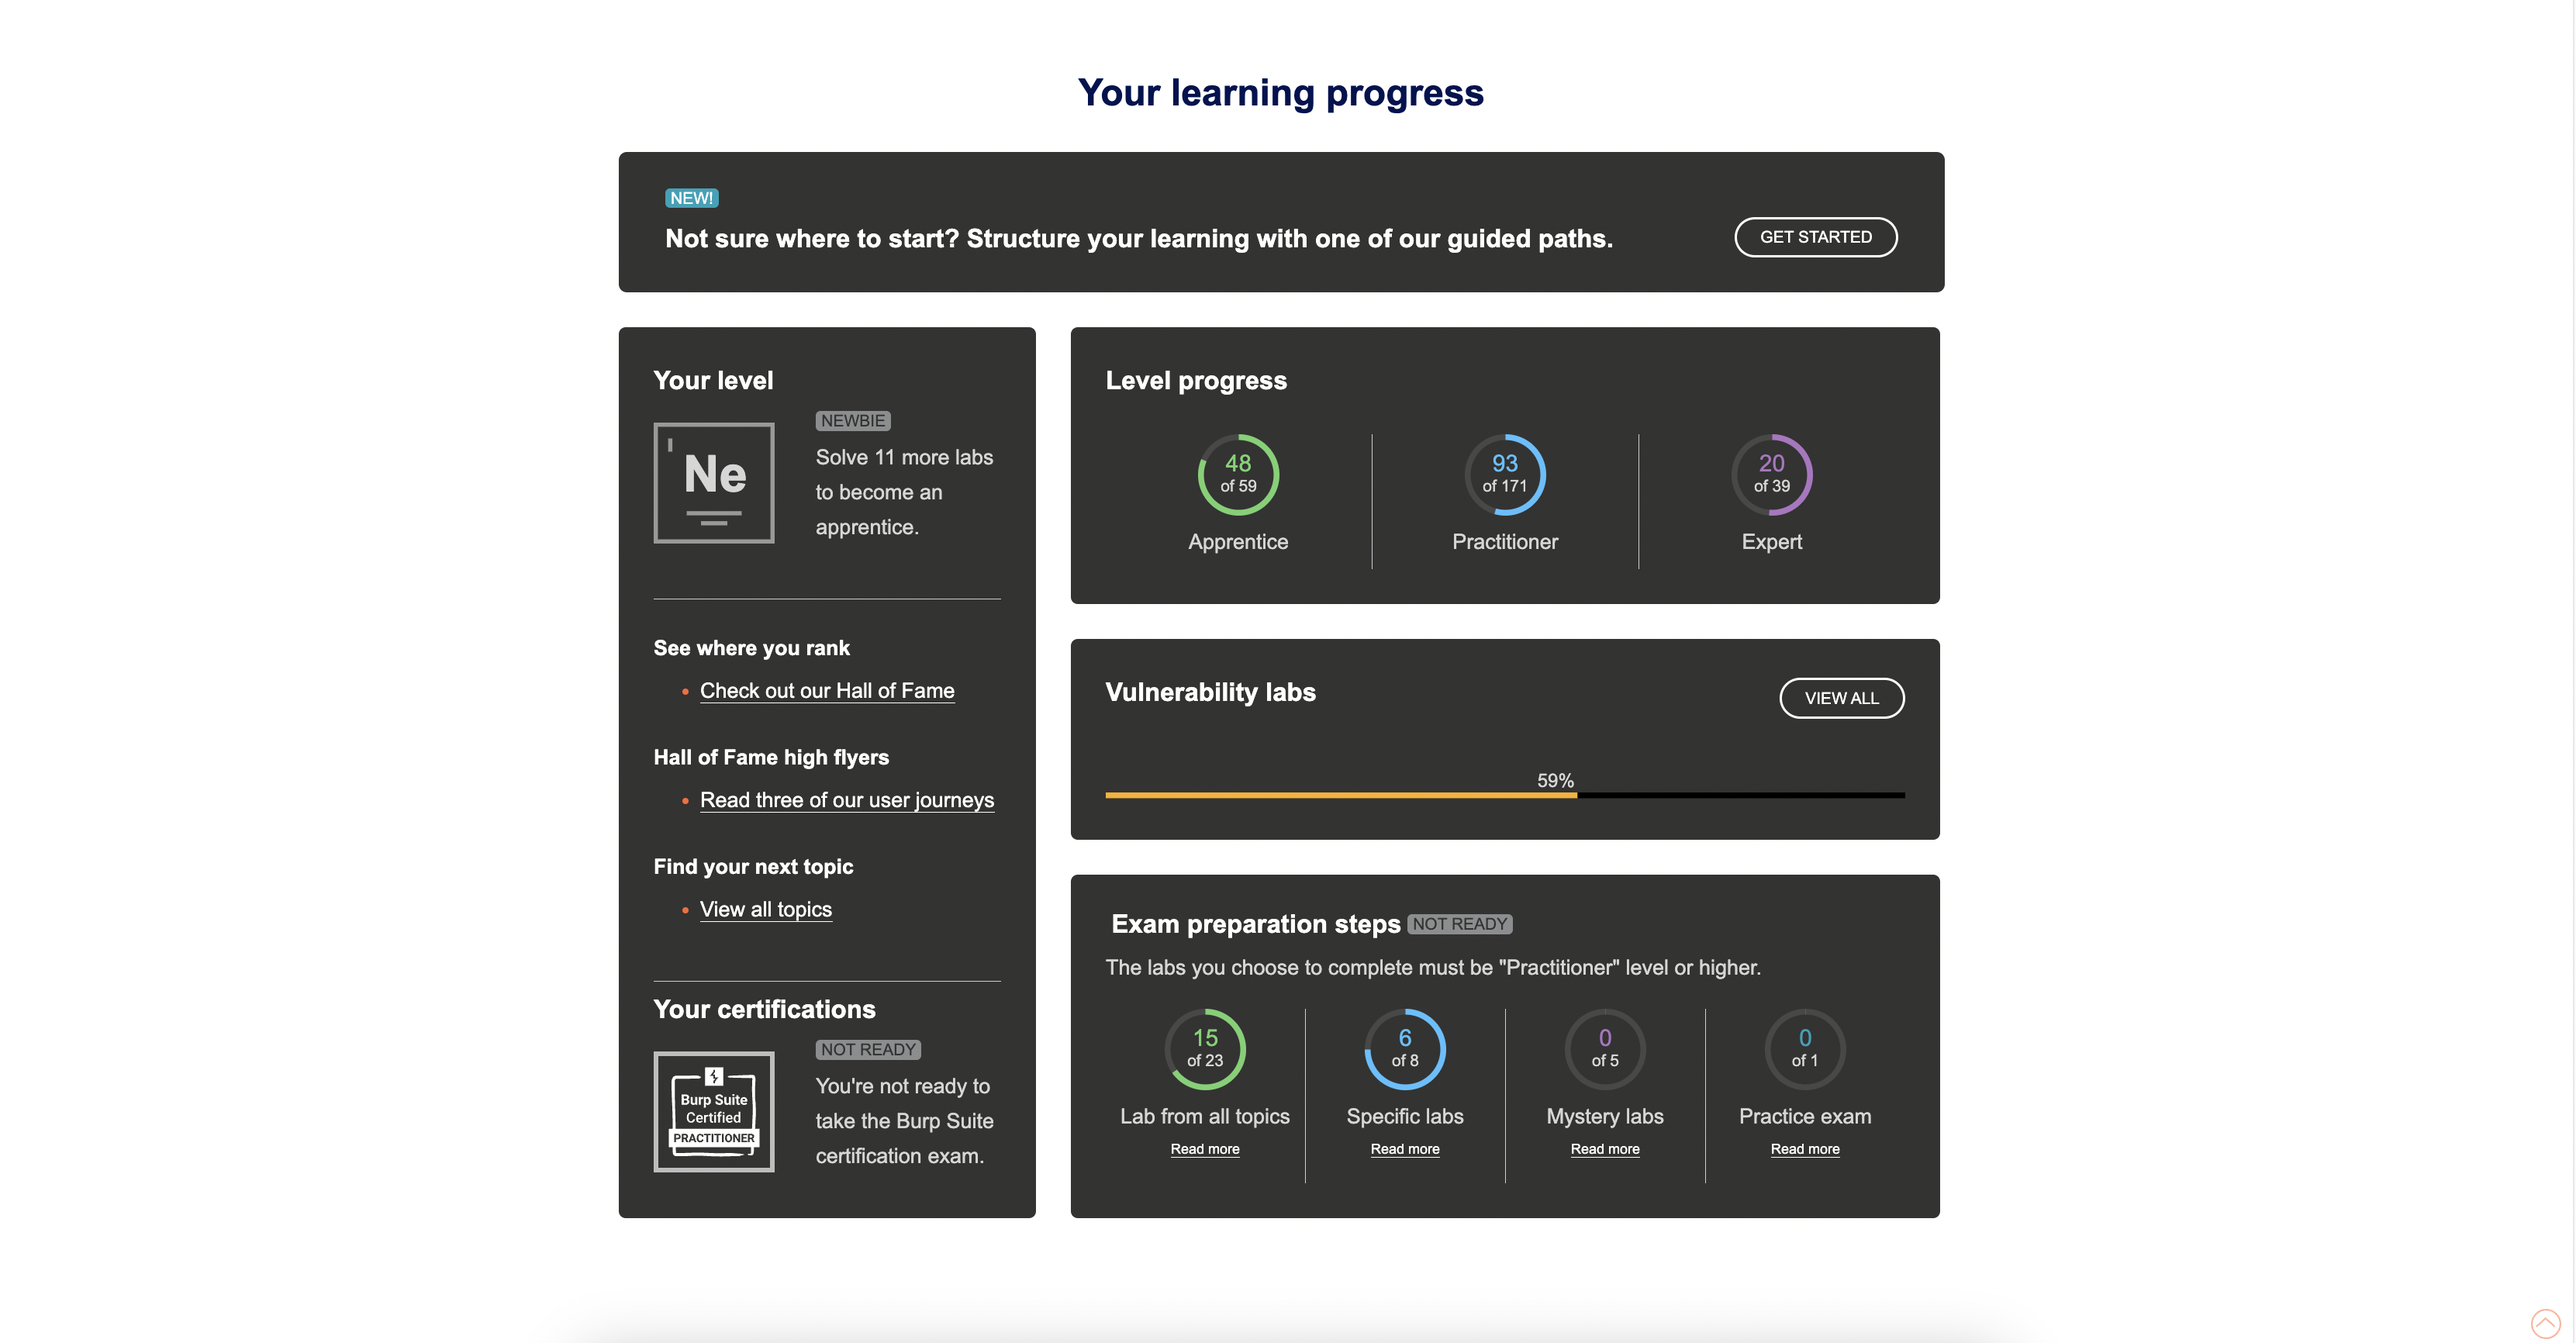
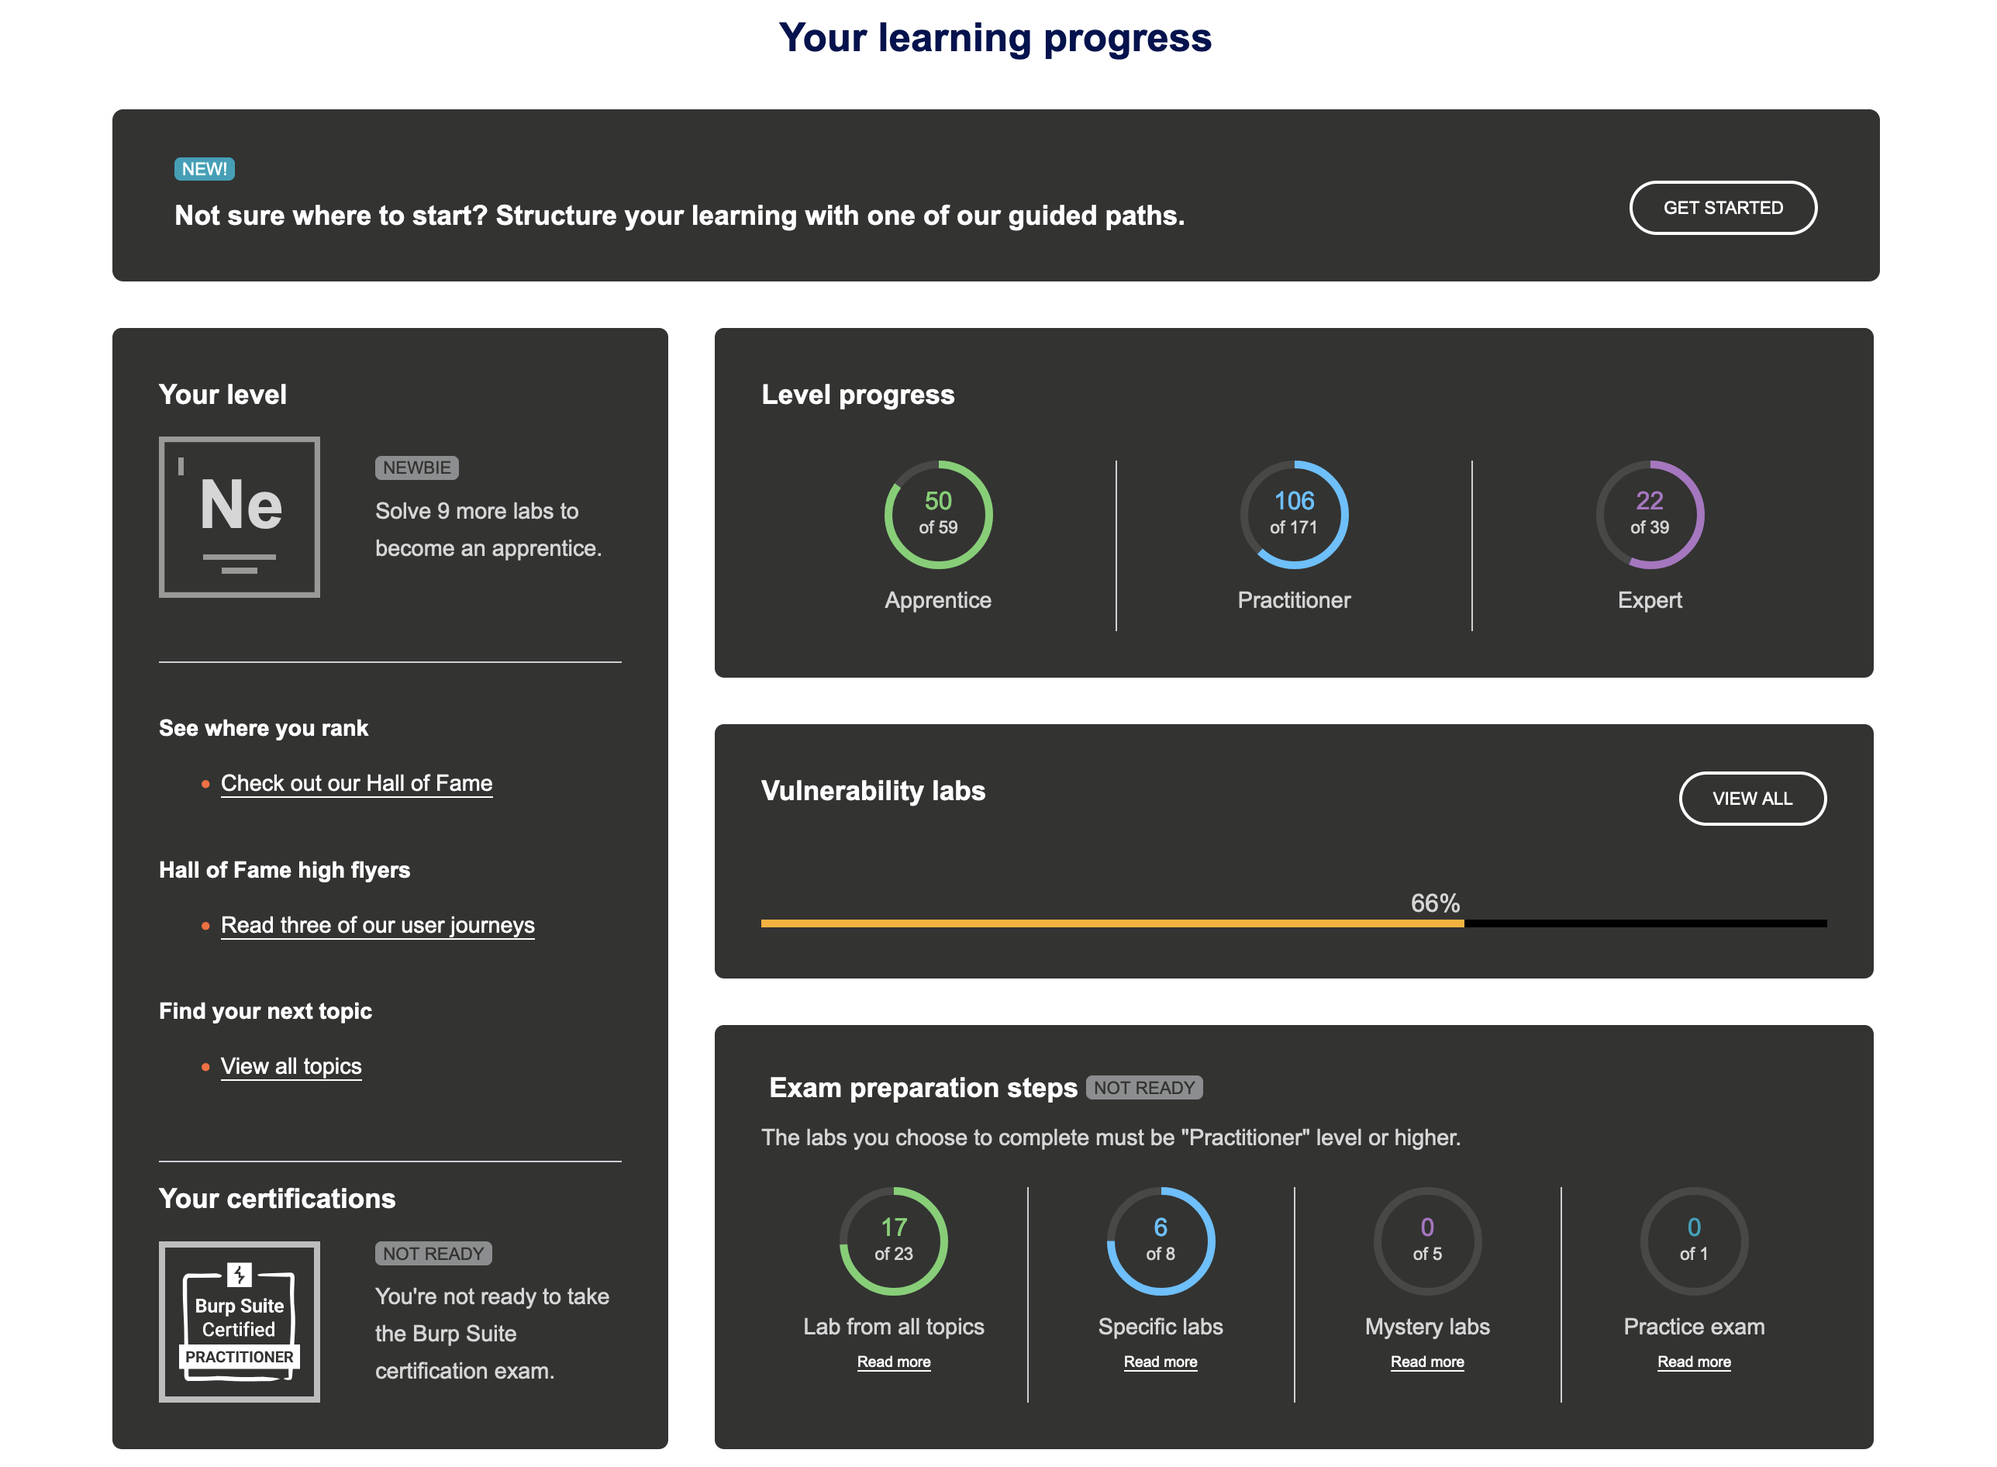
Uploading new changes (feat)

diff --git a/src/components/ExperienceInfo.tsx b/src/components/ExperienceInfo.tsx
@@ -121,9 +121,9 @@ const dummyContent = [
     description: (
       <ul className="list-disc ml-6">
         <li>
-          I have been able to solve over 260 labs on the Portswigger and Pentesterlab platform covering topics such as:
-          SSRF, SQLi, Disclosure Information, LLM Attacks, ClickJacking, Server Side Template Injection, OS Command Injection, Path Traversal, File Upload, File Include,
-          Access Control, Authentication/Authorization, Web Sockets, UNIX Systems, XSS, Business Logic Vulnerabilities, Caché Web Deception (In Progress).
+          I have been able to solve over 278 labs on the Portswigger and Pentesterlab platform covering topics such as:
+          SSRF, SQLi, Disclosure Information, LLM Attacks, ClickJacking, SSTI, OS Command Injection, Path Traversal, File Upload, File Include,
+          Access Control, Authentication/Authorization, Web Sockets, UNIX Systems, XSS, Business Logic Vulnerabilities, Cache Web Deception, Deserialization Insecure.
 
         </li>
       </ul>
